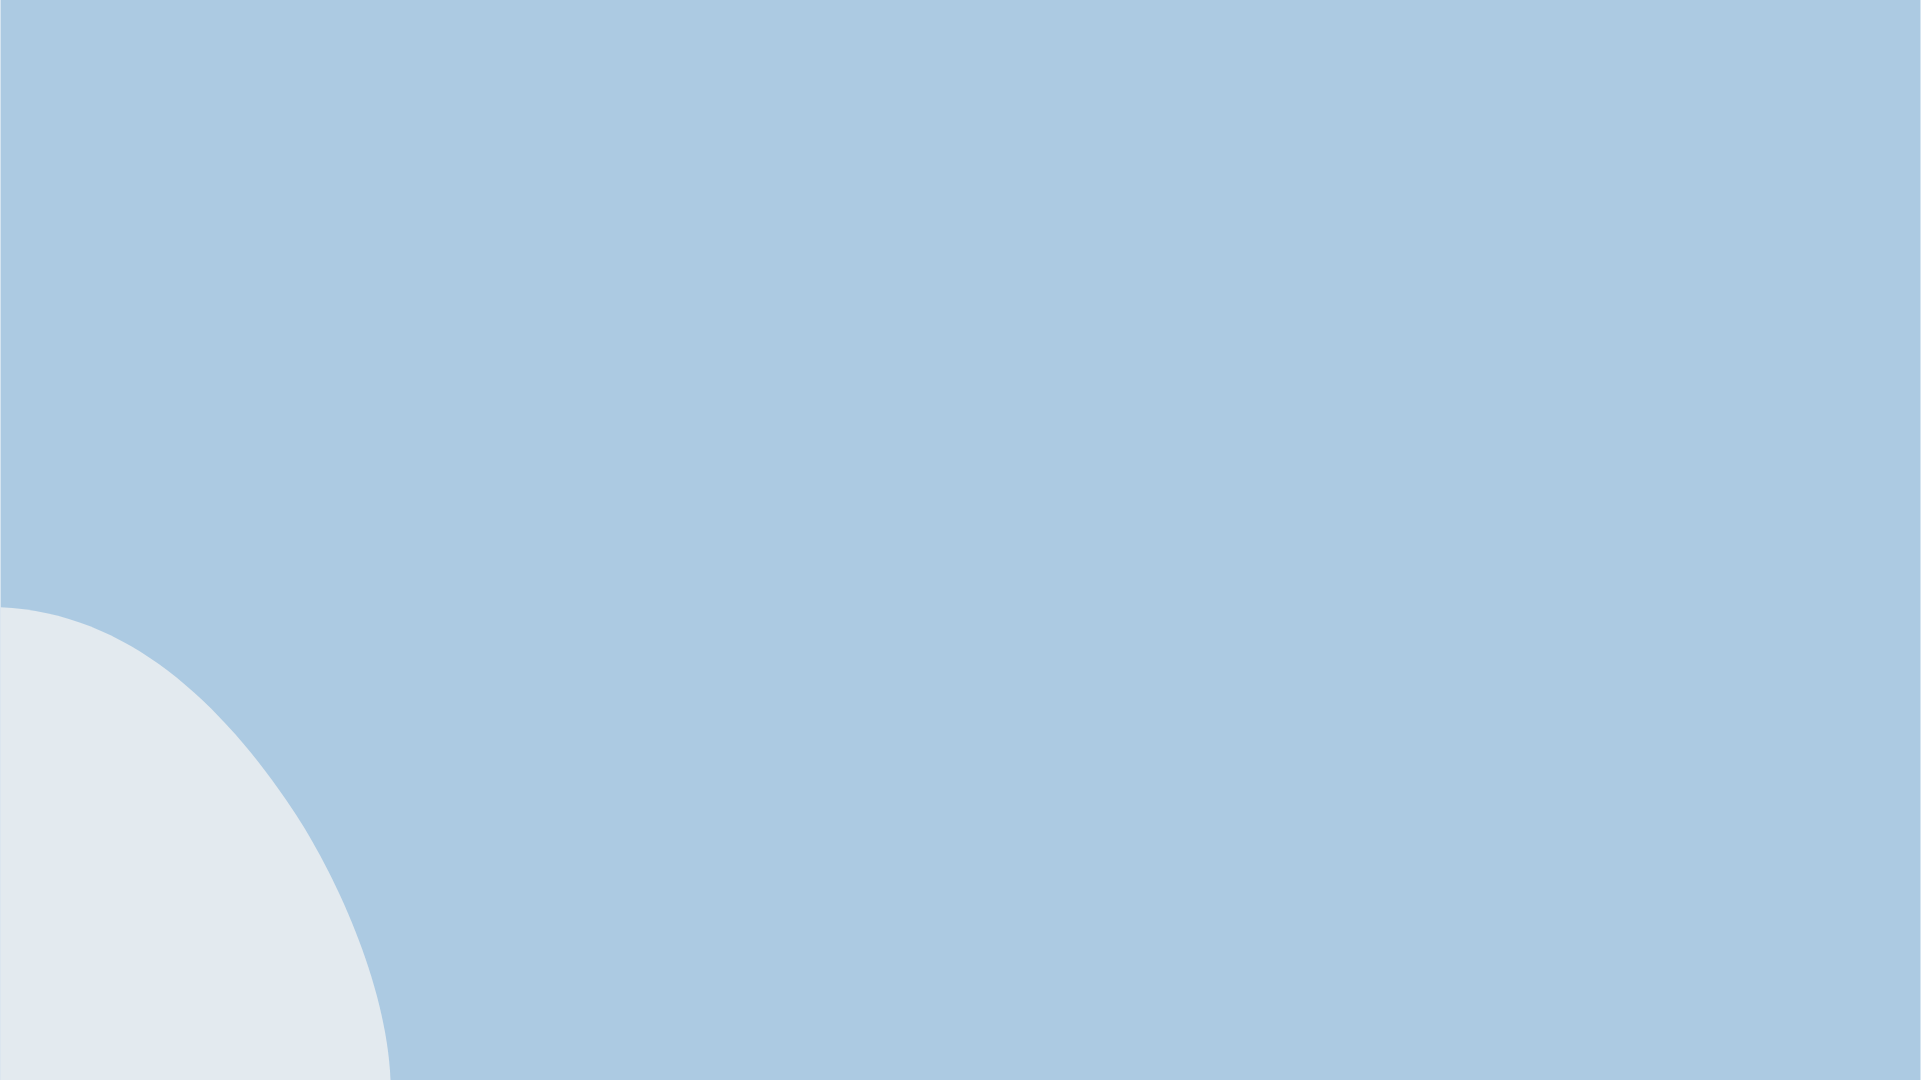
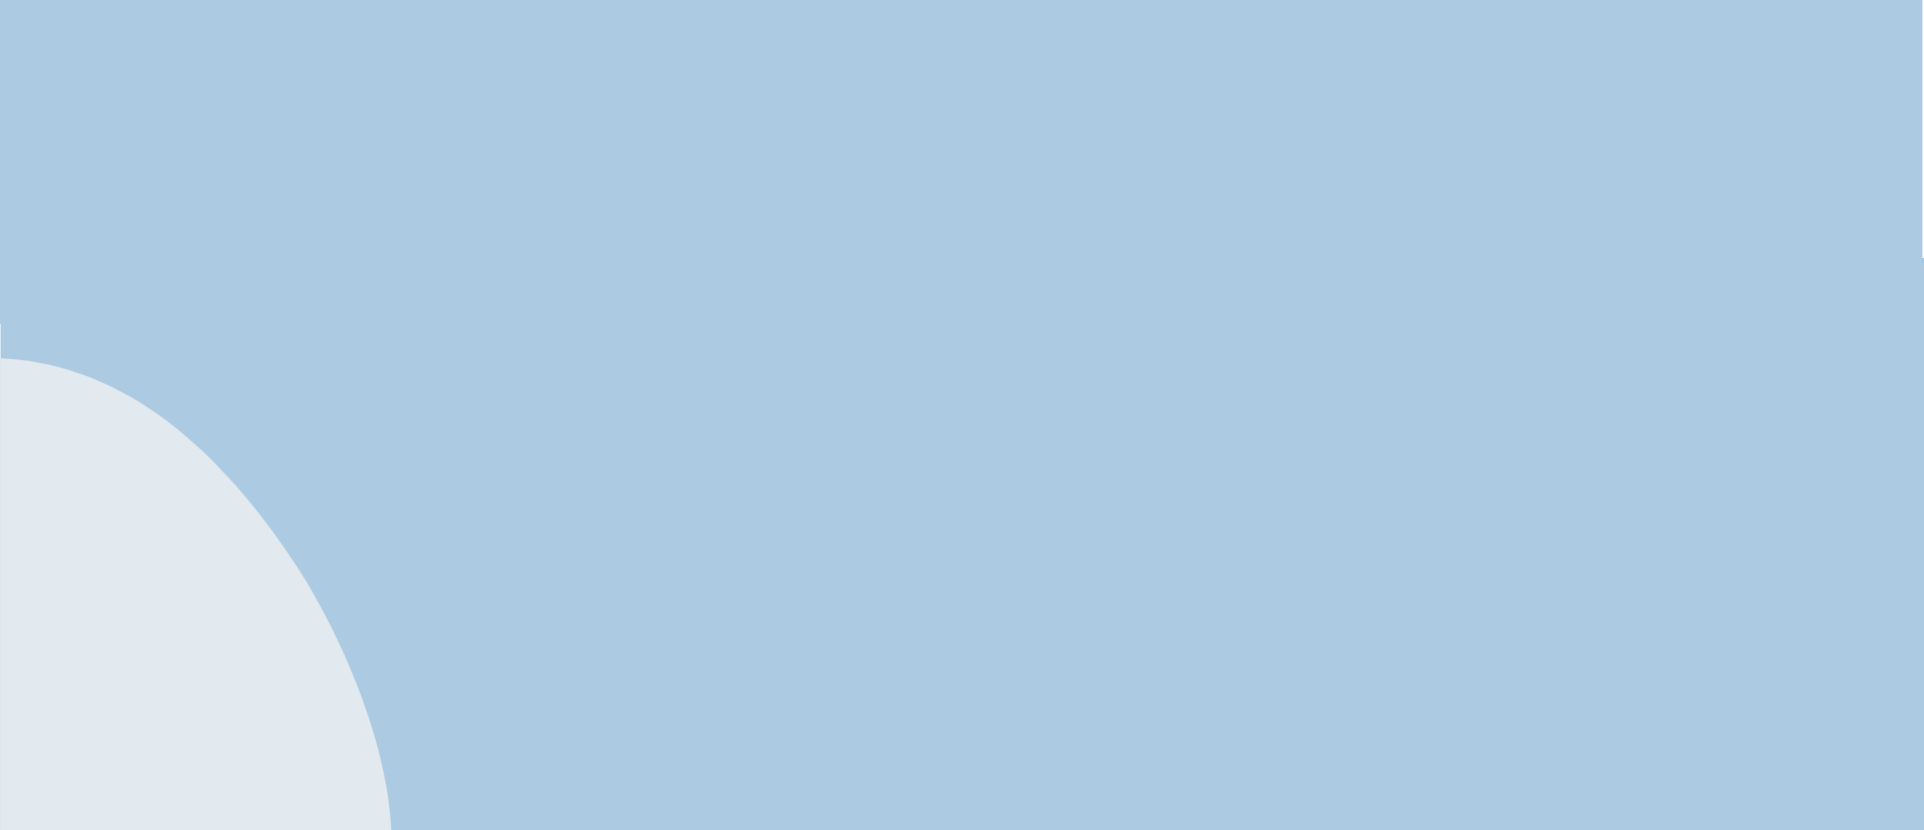
feature8: Ajustes de background e montagem inicial loja

Changed region(s): [[0.2186, 0.0, 1.0, 1.0], [0.0, 0.4217, 0.2186, 0.9036]]

diff --git a/src/styles/layout.css b/src/styles/layout.css
@@ -26,6 +26,11 @@
 /* a. General and Common Styles
 /* ------------------------------------------------------------------ */
 
+* {
+   margin:0;
+   padding:0;
+}
+
 body { background: #f9fbf4; }
 
 .section-head {
@@ -167,17 +172,21 @@ ul.nav li.current button { color: #fff; }
 
 
 /* ------------------------------------------------------------------ */
-/* c. Hero Section
+/* c. Hero Section (carrossel)
 /* ------------------------------------------------------------------ */
 
 #hero {
    padding-top: 66px;
    background: #2d638e url(img/hero-bg.png);
    overflow: hidden;
+   display: block;
+   position: static;
+   top: 0;
+   left: 0;
 }
 
 /* For high-res devices */
-@media
+/*@media
 (-webkit-min-device-pixel-ratio: 2),
 (min-resolution: 192dpi) {
 
@@ -186,7 +195,7 @@ ul.nav li.current button { color: #fff; }
 		background-size: 200px 200px;
 	}
 
-}
+}*/
 
 #hero .row { max-width: 1040px; }
 
@@ -253,9 +262,13 @@ ul.nav li.current button { color: #fff; }
 
 #about {
    background: #accae2 url(img/about-bg.png);
+   background-size: auto;
    padding-top: 96px;
-   padding-bottom: 78px;
    overflow: hidden;
+   position: static;
+   top: 0px;
+   left: 0px;
+   margin: 0px;
 }
 
 #about .about-box {
@@ -281,10 +294,40 @@ ul.nav li.current button { color: #fff; }
 }
 
 #about img {
-   padding-top: 60px;
+   padding-top: 100px;
    border-radius: 30px;
+   width: 100%
 }
 
+.fluid-video-wrapper { margin-top: 18px; }
+
+/* ------------------------------------------------------------------ */
+/* d. Store Section
+/* ------------------------------------------------------------------ */
+
+#store {
+   background: #accae2 url(img/store-bg.png);
+   padding-top: 78px;
+   overflow: hidden;
+}
+#store .store {
+   margin-top: 30px;
+   margin-bottom: 54px;
+}
+#store .right {
+   padding-left: 32px;
+   float: right;
+}
+#store .left {
+   padding-right: 32px;
+   float: left;
+}
+#store h3 {
+   font: bold 16px/24px 'Montserrat', sans-serif;
+   text-transform: uppercase;
+   letter-spacing: 1px;
+   color: #222;
+}
 .fluid-video-wrapper { margin-top: 18px; }
 
 
@@ -397,7 +440,7 @@ ul.features li:nth-child(even) { }
 /* ------------------------------------------------------------------ */
 
 #screenshots {
-   background: #fff url(img/grey.png);
+   background: #fff; /*url(img/grey.png);*/
    padding-top: 96px;
    padding-bottom: 120px;
 }
@@ -408,7 +451,7 @@ ul.features li:nth-child(even) { }
 (min-resolution: 192dpi) {
 
    #screenshots {
-      background: #fff url(img/grey_@2X.png);
+      background: #fff; /*url(img/grey_@2X.png);*/
       background-size: 397px 322px;
    }
 
@@ -567,7 +610,7 @@ ul.features li:nth-child(even) { }
 }
 
 /* For high-res devices */
-@media
+/*@media
 (-webkit-min-device-pixel-ratio: 2),
 (min-resolution: 192dpi) {
 
@@ -576,7 +619,7 @@ ul.features li:nth-child(even) { }
 		background-size: 46px 29px;
 	}
 
-}
+}*/
 
 #testimonials .quote-left,
 #testimonials .quote-right {

diff --git a/src/components/store/store.js b/src/components/store/store.js
@@ -1,0 +1,58 @@
+import React from "react"
+import ScrollAnimation from 'react-animate-on-scroll'
+import { AnchorLink } from "gatsby-plugin-anchor-links"
+import content from "./store.yaml"
+
+/*
+<a target="blank"  href=""><img border="0" src="//ws-na.amazon-adsystem.com/widgets/q?_encoding=UTF8&MarketPlace=BR&ASIN=B095L64BDN&ServiceVersion=20070822&ID=AsinImage&WS=1&Format=_SL250_&tag=amandaboaviag-20&tag=amandaboaviag-20" ></a>
+
+<div className="row">
+      <div className="twelve columns">
+        <div className="buttons">
+          <AnchorLink className="button trial animated shake" to={ contentHero.button1.to }>{ contentHero.button1.label }</AnchorLink>
+        </div>
+      </div>
+    </div>
+*/
+
+export default () => (
+
+  <section id='store'>
+
+    {content.map((value, index) => {
+
+      let pos, imagepos
+      if (index%2 === 0){
+        pos = "right"
+        imagepos = "left"
+      }else{
+        pos = "left"
+        imagepos = "right"
+      }
+
+      let media = ( <img border="0" src={ value.cover } alt="" /> )
+
+      return(
+        <div className={ 'row feature store' }>
+          <div className={ 'six columns ' + pos }>
+            <h3>{ value.title + ' - ' + value.author }</h3>
+            <br/><br/>
+            <p style={{textAlign: "justify"}}>{ value.body }</p>
+            <br/>
+            <a target="blank" href={value.link}>Quero ler</a>
+          </div>
+
+          <ScrollAnimation
+            animateIn="pulse"
+            animateOnce={true}
+            initiallyVisible={true}
+            className={ 'six columns feature-media ' + imagepos }
+            >
+            { media }
+          </ScrollAnimation>
+       </div>
+     )
+   })}
+    
+  </section>
+)

diff --git a/src/components/about/about.js b/src/components/about/about.js
@@ -21,9 +21,9 @@ export default class LightboxExample extends Component {
 
         <div className={ 'row about' }>
 
-          <div className="twelve columns flex-container about-box">
+          <div className="ten offset-1 columns left about-box">
 
-            <div className={ 'six columns left' }>
+            <div className={ 'eight columns left' }>
               <h3>{ content.title }</h3>
               
               <p style={{textAlign: "justify"}}>{ content.body }</p>
@@ -34,7 +34,7 @@ export default class LightboxExample extends Component {
               animateIn="pulse"
               animateOnce={true}
               initiallyVisible={true}
-              className={ 'six columns right'}>
+              className={ 'four columns right'}>
               <img src={ content.image } alt="" />
             </ScrollAnimation>
 

diff --git a/src/pages/index.js b/src/pages/index.js
@@ -4,6 +4,7 @@ import Layout from "../components/layout"
 
 import Hero from "../components/hero/hero"
 import About from "../components/about/about"
+import Store from "../components/store/store"
 
 
 import Features from "../components/features"
@@ -20,6 +21,7 @@ export default () => {
   const availableSections = {
     "hero": Hero,
     "about": About,
+    "store": Store,
     "features": Features,
     "pricing": Pricing,
     "call-to-action": CalltoAction,

diff --git a/gatsby-config.js b/gatsby-config.js
@@ -17,6 +17,7 @@ module.exports = {
     sections: [
       `hero`,
       `about`,
+      `store`,
       /*`features`,
       `call-to-action`,
       `screenshots`,
